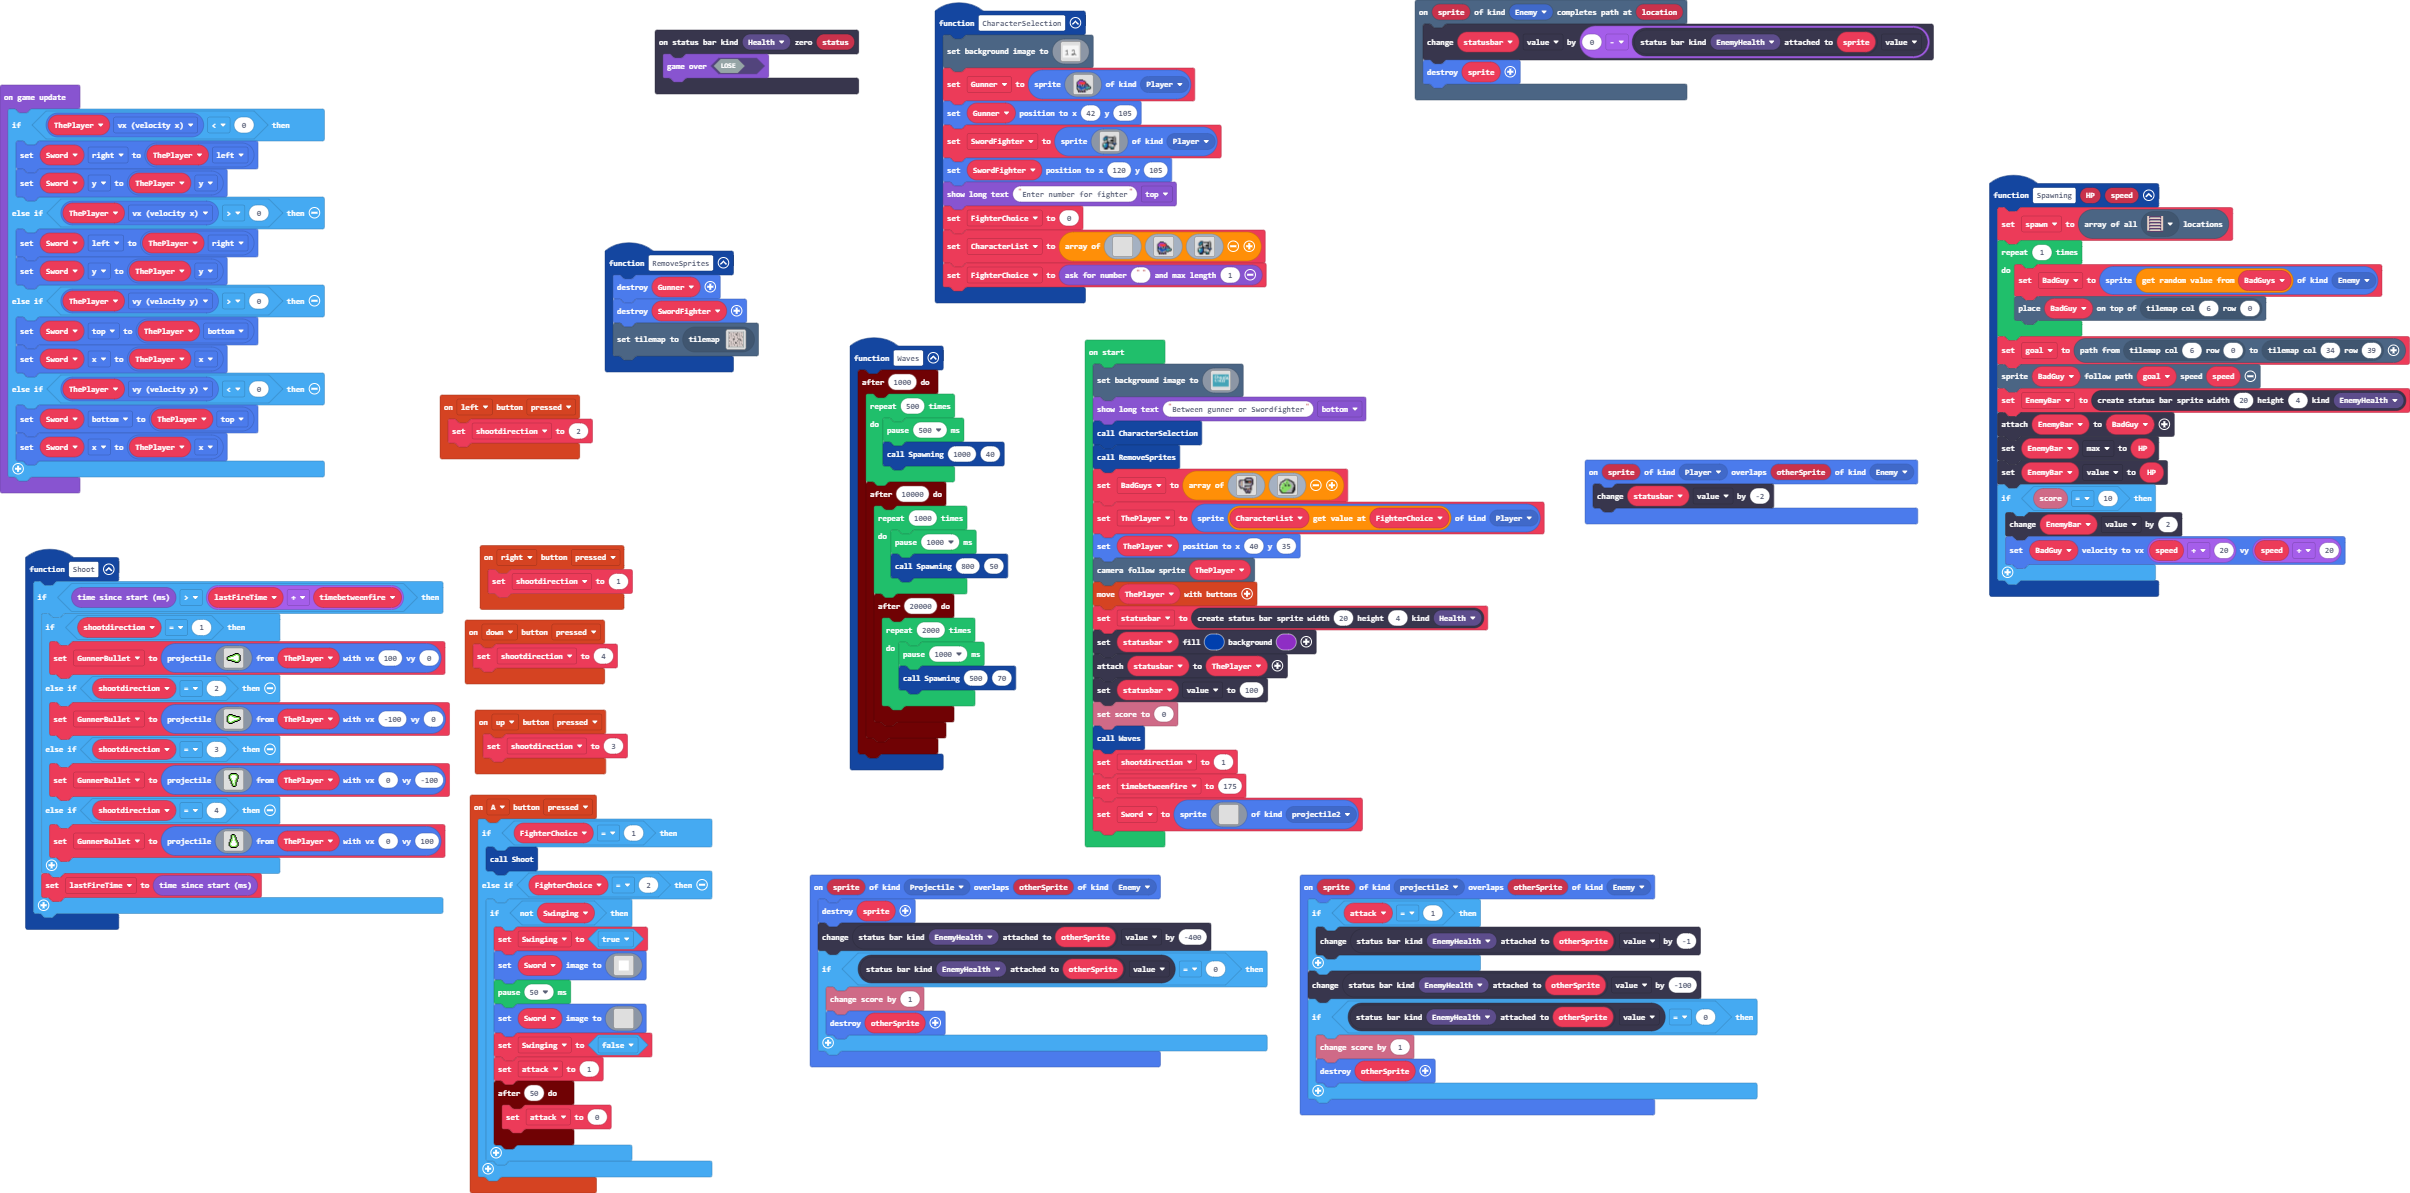
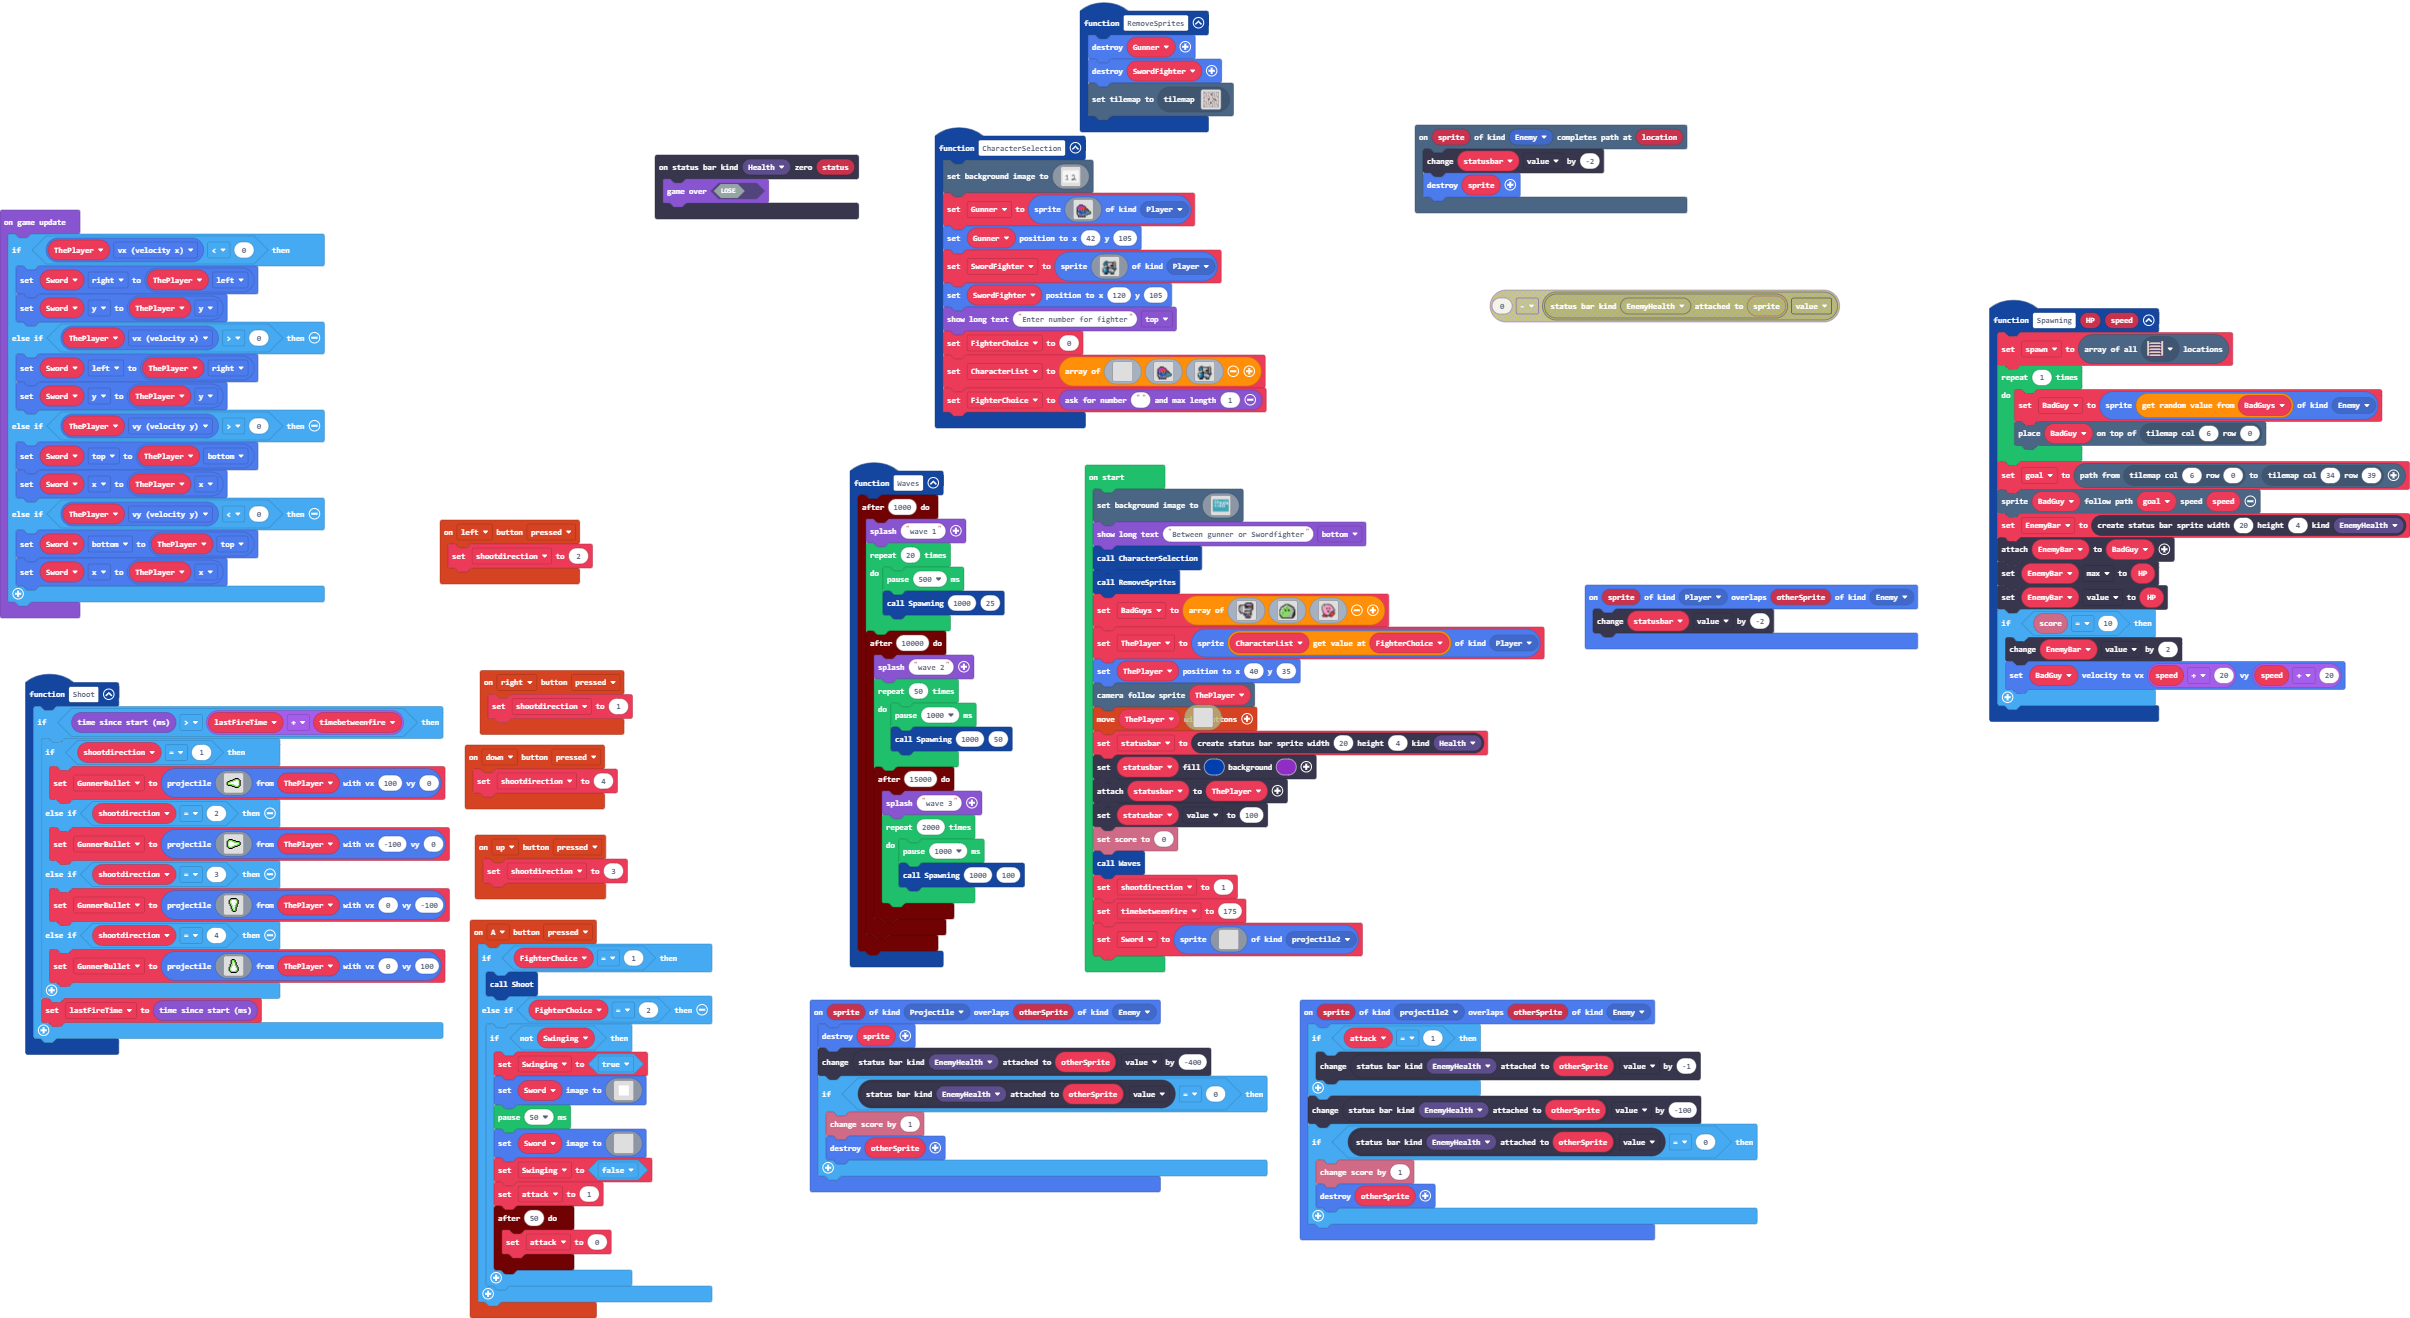
Update main.blocks, main.ts, tilemap.g.jres, tilemap.g.ts

diff --git a/tilemap.g.ts b/tilemap.g.ts
@@ -47,46 +47,46 @@ namespace myTiles {
 `, [myTiles.transparency16], TileScale.Sixteen);
             case "level1":
[1 lines of base64/hex data omitted]
-........................................
-........................................
-........................................
-...22.........2........22.........2.....
-....22........22........22........22....
-...................2....................
-........2..........222......2...........
-.......22..........22222...22...........
-....................2222................
-..............2...................2.....
-.........2...22..............2...22.....
-....2....22.............2....22.........
-....22..................22..............
-................22..................22..
-................2...................2...
-..22.....22...........22.....22.........
-...22..................22...............
-........................................
-.............22222........22............
-............22222.........222222........
-............2222..........2222222.......
-..............................22.2......
-...............................22.......
-...22.........2........22.........2.....
-....22........22........22........22....
-........................................
-........2..........2........2...........
-.......22.........2222.....22...........
-..................2222..................
-..............2...22222...........2.....
-.........2...22..............2...22.....
-....2....22.............2....22.........
-....22..................22..............
-................22..................22..
-................2...................2...
-..22.....22...........22.....22.........
-...22..................22...............
-........................................
-........................................
-........................................
+222222.222222222222222222222222222222222
+2......................................2
+2......................................2
+2..22.........2........22.........2....2
+2...22........22........22........22...2
+2..................2...................2
+2.......2..........222......2..........2
+2......22..........22222...22..........2
+2...................2222...............2
+2.............2...................2....2
+2........2...22..............2...22....2
+2...2....22.............2....22........2
+2...22..................22.............2
+2...............22..................22.2
+2...............2...................2..2
+2.22.....22...........22.....22........2
+2..22..................22..............2
+2......................................2
+2............22222........22...........2
+2...........22222.........222222.......2
+2...........2222..........2222222......2
+2.............................22.2.....2
+2..............................22......2
+2..22.........2........22.........2....2
+2...22........22........22........22...2
+2......................................2
+2.......2..........2........2..........2
+2......22.........2222.....22..........2
+2.................2222.................2
+2.............2...22222...........2....2
+2........2...22..............2...22....2
+2...2....22.............2....22........2
+2...22..................22.............2
+2...............22..................22.2
+2...............2...................2..2
+2.22.....22...........22.....22........2
+2..22..................22..............2
+2......................................2
+2......................................2
+2222222222222222222222222222222222.22222
 `, [myTiles.transparency16,sprites.builtin.forestTiles10,sprites.dungeon.greenOuterNorthWest,sprites.dungeon.greenOuterNorth0,sprites.dungeon.greenOuterNorthEast,sprites.dungeon.greenOuterEast0,sprites.dungeon.greenOuterSouthWest,sprites.dungeon.greenOuterSouth2,sprites.dungeon.greenOuterSouth1,sprites.dungeon.greenOuterSouthEast,sprites.dungeon.greenOuterWest1,sprites.dungeon.greenOuterWest0,sprites.dungeon.greenOuterSouth0,sprites.dungeon.greenOuterEast1,sprites.dungeon.greenOuterNorth1,sprites.dungeon.floorLight4,sprites.dungeon.stairNorth], TileScale.Sixteen);
         }
         return null;

diff --git a/main.ts b/main.ts
@@ -10,7 +10,7 @@ controller.up.onEvent(ControllerButtonEvent.Pressed, function () {
     shootdirection = 3
 })
 scene.onPathCompletion(SpriteKind.Enemy, function (sprite, location) {
-    statusbar.value += 0 - statusbars.getStatusBarAttachedTo(StatusBarKind.EnemyHealth, sprite).value
+    statusbar.value += -2
     sprites.destroy(sprite)
 })
 controller.A.onEvent(ControllerButtonEvent.Pressed, function () {
@@ -416,19 +416,22 @@ function Spawning (HP: number, speed: number) {
 }
 function Waves () {
     timer.after(1000, function () {
-        for (let index = 0; index < 500; index++) {
+        game.splash("wave 1")
+        for (let index = 0; index < 20; index++) {
             pause(500)
-            Spawning(1000, 40)
+            Spawning(1000, 25)
         }
         timer.after(10000, function () {
-            for (let index = 0; index < 1000; index++) {
+            game.splash("wave 2")
+            for (let index = 0; index < 50; index++) {
                 pause(1000)
-                Spawning(800, 50)
+                Spawning(1000, 50)
             }
-            timer.after(20000, function () {
+            timer.after(15000, function () {
+                game.splash("wave 3")
                 for (let index = 0; index < 2000; index++) {
                     pause(1000)
-                    Spawning(500, 70)
+                    Spawning(1000, 100)
                 }
             })
         })
@@ -630,6 +633,27 @@ BadGuys = [img`
     .ff777777bbbbbbbfff.
     ..ff7777bbbbbbbbff..
     ...ffffffffffffff...
+    `, img`
+    ....................
+    ....................
+    ....ff.fffff........
+    ...f33f13333ff......
+    ..f13f11333333f.....
+    ..f133333333333f....
+    ..f33333f33f333f....
+    ..f13333f33f3333f...
+    ..f13333f33f3333bf..
+    ..f333333333333bbf..
+    ...f33333ff33bbbbf..
+    ...f33333ff3bbfff...
+    ...f3333333bbf222f..
+    ....f333333bf2222f..
+    ....ff3333bbf2222f..
+    ...f22ff3bbf2222f...
+    ..f22222fffff22f....
+    ...ffffff...fff.....
+    ....................
+    ....................
     `]
 ThePlayer = sprites.create(CharacterList[FighterChoice], SpriteKind.Player)
 ThePlayer.setPosition(40, 35)
